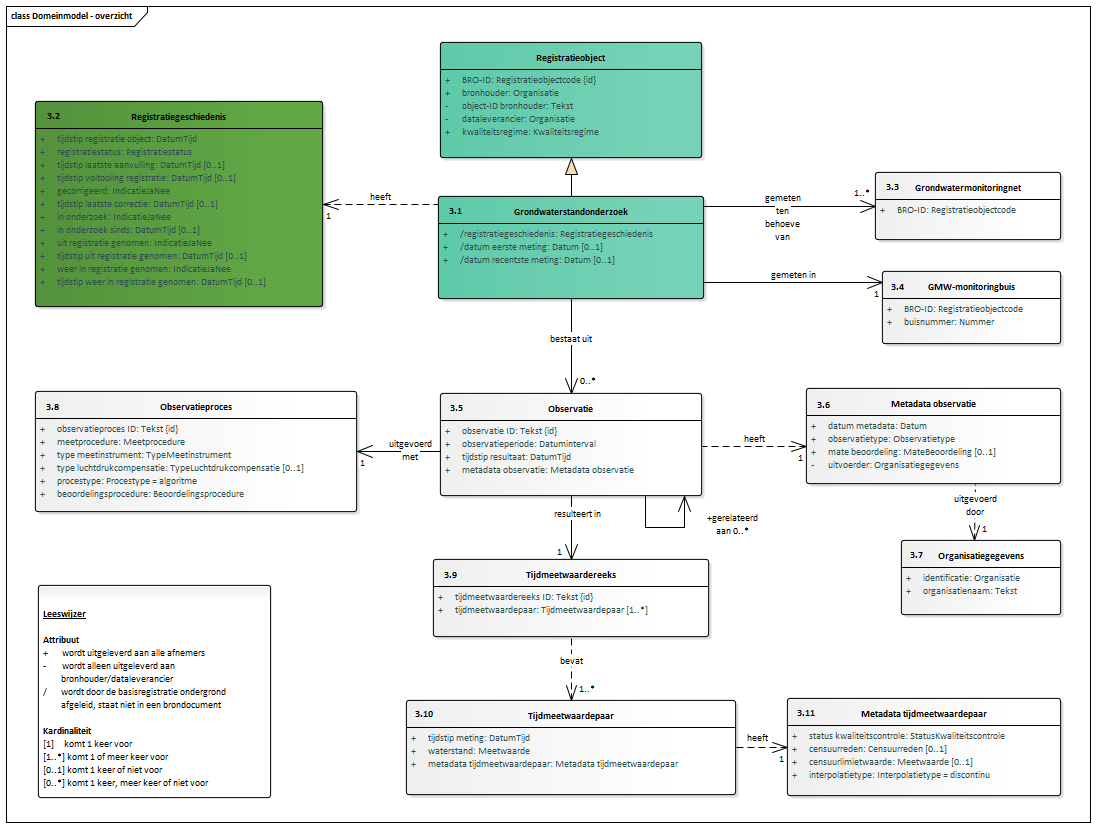
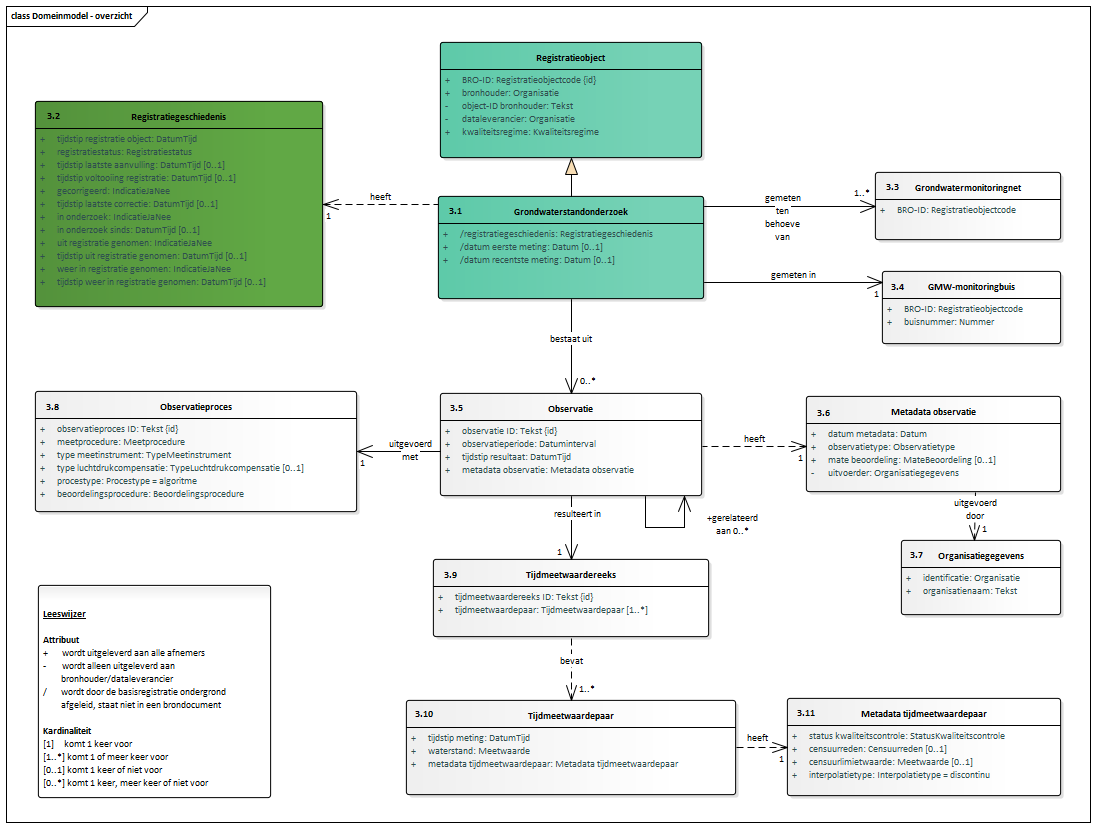
Conceptualmodel-GrondwaterstandonderzoekGLD-0.91-3-20191111-20200325-075009

Changed region(s): [[0.7445, 0.4529, 0.9617, 0.6341]]

diff --git a/data/GLD-cat.msword.html b/data/GLD-cat.msword.html
@@ -13,7 +13,7 @@
    <body>
       <p>Conceptual model/Grondwaterstandonderzoek (GLD)/20191111</p>
       <p>Imvertor: 1.59.2</p>
-      <p>Model release: Conceptualmodel-GrondwaterstandonderzoekGLD-0.91-3-20191111-20200323-130045</p>
+      <p>Model release: Conceptualmodel-GrondwaterstandonderzoekGLD-0.91-3-20191111-20200325-075009</p>
       <hr>
       <section>
          <h1>Artikel 1 Definitie van registratieobject, entiteiten en attributen</h1>
@@ -70,7 +70,7 @@
                      <area shape="rect" alt="Grondwatermonitoringnet" coords="875,172,1061,240" href="#graph_EAID_68FD3B87_BA7B_485e_A5DC_4804CB98C818">
                      <area shape="rect" alt="Tijdmeetwaardepaar" coords="406,700,736,795" href="#graph_EAID_5FC959F0_5ED2_47e7_8C6C_68C408128425">
                      <area shape="rect" alt="Registratiegeschiedenis" coords="35,101,323,307" href="#graph_EAID_0D009A59_1E9A_4fc2_867A_9006A9464AA7">
-                     <area shape="rect" alt="Metadata observatie" coords="806,388,1061,484" href="#graph_EAID_2931B2EB_8861_47e1_B587_ADACE12C97F7">
+                     <area shape="rect" alt="Metadata observatie" coords="806,396,1061,492" href="#graph_EAID_2931B2EB_8861_47e1_B587_ADACE12C97F7">
                      <area shape="rect" alt="GMW-monitoringbuis" coords="882,271,1061,344" href="#graph_EAID_3337CDCE_0A5D_4aee_AEB0_14AF7652B102">
                      <area shape="rect" alt="Grondwaterstandonderzoek" coords="438,196,704,299" href="#graph_EAID_5876720F_795D_40b5_82B8_BC782B71FA3A"></map><p><b>Domeinmodel</b></p>
                </div>
@@ -2989,7 +2989,7 @@
                      <th>Omschrijving</th>
                   </tr>
                   <tr>
-                     <td>BrabantWater2013</td>
+                     <td>brabantWater2013</td>
                      <td>✔</td>
                      <td>✔</td>
                      <td>
@@ -2999,7 +2999,7 @@
                      </td>
                   </tr>
                   <tr>
-                     <td>EijkelkampDataValidatiev0.0.9</td>
+                     <td>eijkelkampDataValidatiev0.0.9</td>
                      <td>✔</td>
                      <td>✔</td>
                      <td>
@@ -3046,7 +3046,7 @@
                      </td>
                   </tr>
                   <tr>
-                     <td>WarecoWaterDataValidatieProtocolv20200219</td>
+                     <td>warecoWaterDataValidatieProtocolv20200219</td>
                      <td>✔</td>
                      <td>✔</td>
                      <td>
